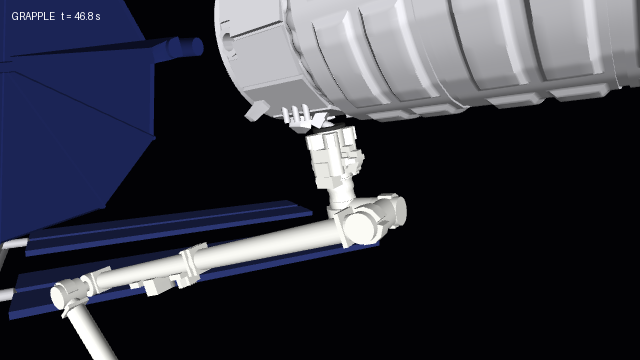
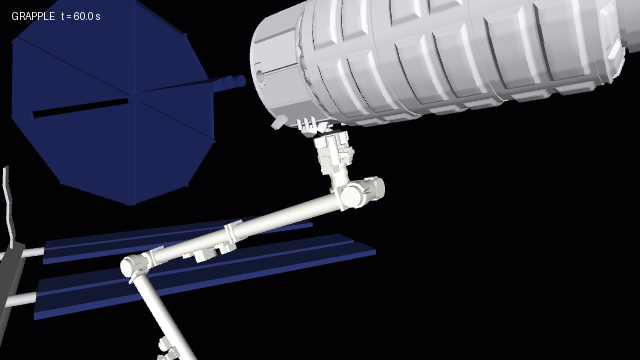
Realism pass 3: start at the 10 m capture point
Every attempt now starts with the grapple pin's tip 10 m from the
surface the arm stands on, the published capture distance for Cygnus,
and the end effector hovering 2 m short of it. The hover distance is an
assumption; no source for it was found.

Captures still succeed across every start condition tried, including a
15 degree tilt, because the controller has perfect knowledge of the pin.
The build log records that the experiments need imperfect sensing to be
informative.

diff --git a/capture/scene.py b/capture/scene.py
@@ -21,10 +21,16 @@ ARM_JOINTS = (
     "wrist_roll",
 )
 
-# End-effector mouth 9 m above the arm's base, pointing straight away from the station.
-# Found by inverse kinematics, choosing the best-conditioned of 29 solutions.
-READY_POSE = np.array([1.036931, -1.523612, -0.684771, 0.951583, 2.874781, 0.047185, 2.982912])
-READY_MOUTH = np.array([1.5, 1.0, 9.0])
+# Free-flying vehicles are captured about 10 m from the station. Here that is the
+# distance from the surface the arm stands on to the tip of the grapple pin.
+CAPTURE_DISTANCE = 10.0
+# How far the end effector waits from the pin before it starts. Not sourced.
+HOVER_DISTANCE = 2.0
+
+# End-effector mouth at the hover point, pointing straight away from the station.
+# Found by inverse kinematics from the best-conditioned of 29 solutions.
+READY_POSE = np.array([1.039915, -1.514656, -0.644822, 0.795967, 2.990447, 0.056141, 2.985896])
+READY_MOUTH = np.array([1.5, 1.0, CAPTURE_DISTANCE - HOVER_DISTANCE])
 
 # End-effector cavity, in the `lee` body frame (z is the approach axis).
 CAVITY_Z0, CAVITY_Z1 = 0.5, 1.0
@@ -143,7 +149,7 @@ def _rot_y(a: float) -> np.ndarray:
 def place_vehicle(
     model: mujoco.MjModel,
     data: mujoco.MjData,
-    standoff: float = 0.5,
+    standoff: float = HOVER_DISTANCE,
     lateral: tuple[float, float] = (0.0, 0.0),
     tilt: tuple[float, float] = (0.0, 0.0),
 ) -> None:
@@ -210,11 +216,15 @@ def pin_axis_error(model: mujoco.MjModel, data: mujoco.MjData) -> float:
 def reset(
     model: mujoco.MjModel,
     data: mujoco.MjData,
-    standoff: float = 0.5,
+    standoff: float = HOVER_DISTANCE,
     lateral: tuple[float, float] = (0.0, 0.0),
     tilt: tuple[float, float] = (0.0, 0.0),
 ) -> None:
-    """Arm at the ready pose, vehicle at rest in front of the end effector."""
+    """Arm at the ready pose, vehicle at rest in front of the end effector.
+
+    With the defaults the grapple pin's tip is at the capture point, CAPTURE_DISTANCE
+    from the station.
+    """
     mujoco.mj_resetData(model, data)
     set_arm(model, data, READY_POSE)
     place_vehicle(model, data, standoff, lateral, tilt)

diff --git a/tests/test_capture.py b/tests/test_capture.py
@@ -14,7 +14,7 @@ def model():
     return scene.build_model()
 
 
-def attempt(model, standoff=0.6, lateral=(0, 0), tilt_deg=(0, 0), drift=(0, 0, 0), tumble_deg=(0, 0, 0), **kw):
+def attempt(model, standoff=scene.HOVER_DISTANCE, lateral=(0, 0), tilt_deg=(0, 0), drift=(0, 0, 0), tumble_deg=(0, 0, 0), **kw):
     data = mujoco.MjData(model)
     scene.reset(model, data, standoff=standoff, lateral=lateral, tilt=np.radians(tilt_deg))
     scene.set_vehicle_velocity(model, data, drift, np.radians(tumble_deg))
@@ -40,6 +40,14 @@ def test_drift_is_the_centre_of_mass_velocity(model):
     assert v_com == pytest.approx([0.01, -0.02, 0.005], abs=1e-9)
 
 
+def test_default_start_puts_the_pin_at_the_capture_point(model):
+    data = mujoco.MjData(model)
+    scene.reset(model, data)
+    tip = data.site("pin_tip").xpos
+    assert tip[2] == pytest.approx(scene.CAPTURE_DISTANCE, abs=1e-3)  # 10 m from the mounting surface
+    assert scene.pin_offset(model, data) == pytest.approx([0, 0, scene.HOVER_DISTANCE], abs=1e-3)
+
+
 def test_captures_a_vehicle_at_rest(model):
     result = attempt(model)
     assert result.success
@@ -55,7 +63,7 @@ def test_captures_a_drifting_tumbling_misaligned_vehicle(model):
         tumble_deg=(0.06, -0.08, 0.03),
     )
     assert result.success
-    assert result.t_trigger < 60.0
+    assert result.t_trigger < 90.0
     assert result.rel_speed < 1e-3
 
 

diff --git a/scripts/render_approach.py b/scripts/render_approach.py
@@ -15,21 +15,21 @@ from capture.controller import CaptureController  # noqa: E402
 from capture.trial import run_trial  # noqa: E402
 
 OUT = ROOT / "docs" / "media"
-SIM_SECONDS_PER_FRAME = 0.4
-PLAYBACK_FPS = 10  # 4x real time
+SIM_SECONDS_PER_FRAME = 0.6
+PLAYBACK_FPS = 10  # 6x real time
 
 
 def main() -> None:
     model = scene.build_model()
     data = mujoco.MjData(model)
     # Exaggerated start so the alignment is easy to see.
-    scene.reset(model, data, standoff=0.7, lateral=(0.09, -0.05), tilt=np.radians((5.0, -4.0)))
+    scene.reset(model, data, lateral=(0.09, -0.05), tilt=np.radians((5.0, -4.0)))
     scene.set_vehicle_velocity(model, data, drift=(0.006, -0.004, 0.004), tumble=np.radians((0.08, -0.1, 0.04)))
     controller = CaptureController(model)
 
     cam = mujoco.MjvCamera()
-    cam.lookat[:] = data.site("lee_mouth").xpos + [0, 0, 0.15]
-    cam.distance, cam.azimuth, cam.elevation = 7.0, 60.0, -10.0
+    cam.lookat[:] = data.site("lee_mouth").xpos + [0, 0, 1.2]
+    cam.distance, cam.azimuth, cam.elevation = 10.0, 60.0, -8.0
 
     frames = []
     next_frame = [0.0]

diff --git a/scripts/view.py b/scripts/view.py
@@ -37,12 +37,12 @@ def main() -> None:
     steps_per_frame = max(1, int(round(args.speed * FRAME_TIME / model.opt.timestep)))
 
     with mujoco.viewer.launch_passive(model, data) as viewer:
-        scene.reset(model, data, standoff=0.7)
-        viewer.cam.lookat[:] = data.site("lee_mouth").xpos + [0, 0, 0.3]
-        viewer.cam.distance, viewer.cam.azimuth, viewer.cam.elevation = 5.0, 60.0, -10.0
+        scene.reset(model, data)
+        viewer.cam.lookat[:] = data.site("lee_mouth").xpos + [0, 0, 1.2]
+        viewer.cam.distance, viewer.cam.azimuth, viewer.cam.elevation = 10.0, 60.0, -8.0
 
         while viewer.is_running():
-            scene.reset(model, data, standoff=0.7, lateral=(0.09, -0.05), tilt=np.radians((5.0, -4.0)))
+            scene.reset(model, data, lateral=(0.09, -0.05), tilt=np.radians((5.0, -4.0)))
             scene.set_vehicle_velocity(model, data, drift=(0.006, -0.004, 0.004), tumble=np.radians((0.08, -0.1, 0.04)))
             controller.reset(data)
             hold_until = None  # keep showing the result for a few seconds

diff --git a/scripts/render_scene.py b/scripts/render_scene.py
@@ -17,14 +17,14 @@ VIEWS = {
     # name: (lookat, distance, azimuth, elevation)
     "scene_station": ((-10.0, 0.0, 2.0), 70.0, 50.0, -20.0),
     "scene_wide": ((0.0, 2.0, 4.0), 26.0, 150.0, 5.0),
-    "scene_closeup": (None, 6.0, 60.0, -10.0),
+    "scene_closeup": (None, 8.0, 60.0, -5.0),
 }
 
 
 def main() -> None:
     model = scene.build_model()
     data = mujoco.MjData(model)
-    scene.reset(model, data, standoff=0.6)
+    scene.reset(model, data)
 
     OUT.mkdir(parents=True, exist_ok=True)
     with mujoco.Renderer(model, height=1080, width=1920) as renderer:

diff --git a/scripts/plan_diagram.py b/scripts/plan_diagram.py
@@ -23,7 +23,7 @@ EXPERIMENTS = [
 ]
 
 # One line on what is happening right now, shown under the title.
-NOW = "Now: realism pass before stage 4.  Real 3D models and station: done.  Sourced parameters: done.  10 m start: next."
+NOW = "Realism pass complete: real 3D models and station, sourced parameters, 10 m capture point.  Next: stage 4."
 
 W, H = 1600, 860
 BG, CARD, EDGE = "#0f1b2d", "#1b2a40", "#2b3d57"

diff --git a/docs/PLAN.md b/docs/PLAN.md
@@ -26,8 +26,8 @@ The project is simulation only. It is a reasoned study of a real operation, not 
 | 3 | Approach and capture | Done (2026-10-10) | A controller completes a capture from a nominal start |
 | R1 | Realism: real 3D models | Done (2026-10-10) | Arm, vehicle, and station use Canadian Space Agency and NASA models; arm joints placed from them |
 | R2 | Realism: sourced parameters | Done (2026-10-10) | Snare and capture numbers taken from the published papers where they give them |
-| R3 | Realism: 10 m capture point | Next | The attempt starts with the vehicle at the real capture distance |
-| 4 | Trial harness | Planned | One command runs N trials and reports success rate and failure types |
+| R3 | Realism: 10 m capture point | Done (2026-10-10) | The attempt starts with the vehicle at the real capture distance |
+| 4 | Trial harness | Next | One command runs N trials and reports success rate and failure types |
 | 5 | Experiment A: capture envelope | Planned | Success map over misalignment, drift, and tumble |
 | 6 | Experiment B: parameter sensitivity | Planned | Matched trials showing the effect of friction, compliance, and delay |
 | 7 | Experiment C: second engine | Planned | Scene exported to USD and rerun in Newton, results compared |
@@ -61,6 +61,7 @@ The project is simulation only. It is a reasoned study of a real operation, not 
 | 2026-10-10 | Arm goes limp during pull-in, except wrist roll | The paper says angular misalignment is removed against a limped arm |
 | 2026-10-10 | Arm keeps tracking until the snare has closed | Stopping at the trigger failed at the paper's 0.031 m/s relative velocity |
 | 2026-10-10 | Cap tip speed at 0.37 m/s | Canadarm2's published unloaded speed |
+| 2026-10-10 | Every attempt starts with the pin at the 10 m capture point and the arm hovering 2 m short | Matches the published capture distance; the hover distance is an assumption |
 | 2026-10-10 | Treat the station as fixed and the arm as rigid | The station is about 60 times heavier than the vehicle; arm flexibility is left out to keep the first version simple |
 
 ## Sourced values
@@ -82,7 +83,8 @@ The project is simulation only. It is a reasoned study of a real operation, not 
 | Limp arm during rigidization | all joints except wrist roll | Daniell and Sachdev | Implemented |
 | Snare drive | ring turns through 80° | Daniell and Sachdev | Not modelled; bars slide instead |
 | Cygnus | 3.07 m diameter, 6.39 m long, up to 8,050 kg loaded | Public data | Collision shape; 7,000 kg |
-| Capture point | about 10 m from the station (12 m for Cygnus XL) | NASA reports | Realism step 3 |
+| Capture point | about 10 m from the station (12 m for Cygnus XL) | NASA reports | The grapple pin's tip starts 10 m from the surface the arm stands on |
+| Ground-control latency | 0.3 to 0.5 s each way | Freer et al. (2020) | Range for the sensing-delay parameter in experiment B |
 
 Daniell and Sachdev (1982) describes the Shuttle arm's end effector: 0.34 m in diameter, 0.46 m long, 29.5 kg. Canadarm2's is a larger descendant with added latches, so these values are indicative for it, not exact.
 
@@ -96,6 +98,8 @@ Daniell and Sachdev (1982) describes the Shuttle arm's end effector: 0.34 m in d
 - Vehicle: collision shape is two cylinders fitted to the CSA Cygnus model; mass split by guess. The grapple pin sits where the model shows a small fixture on the service module, which is probably the grapple fixture but is not confirmed.
 - Grapple pin: 0.3 m long, 2 cm radius, with a flat-backed knob. The real fixture has a shaft with cam arms, which are not modelled.
 - Snare: three rigid bars, 6 mm radius, drive force limit 1,500 N, friction 0.6. Cable tension and friction are not sourced.
+- Hover distance: the end effector starts 2 m from the pin. No source found for the real pre-capture distance.
+- Which point the published 10 m is measured from is not stated; here it is the module surface under the arm's base.
 - Controller: gains, 3 cm/s insertion speed, alignment tolerances. Real captures are flown by an operator; the controller here has perfect knowledge of the pin.
 - Station: NASA's model (B), scaled by 2.35. Low-detail, untextured, US modules about 15% narrow. The arm's mounting position on the forward node is approximate.
 
@@ -124,7 +128,8 @@ Prior work:
 - Arbatani, Kövecses, and Teichmann, "Real-time Simulation of Cable-Based Robotic End Effectors", ECCOMAS Multibody 2023 (read): https://multibody2023.tecnico.ulisboa.pt/prog_MULTIBODY_WEB/MULTBODY2023_ABSTRACTS/ID_243_327_ECCOMAS_MBD_2023_accepted_rev.pdf
 - Uyama et al., contact dynamics between the end effector and a floating target, JAXA workshop, 2009 (abstract only; full text not public): https://jaxa.repo.nii.ac.jp/records/7383
 - Snare-type end-effector cable dynamics (paywalled; not read): https://link.springer.com/article/10.1007/s11771-013-1825-z
-- On-orbit operations simulator for telerobotic training: https://arxiv.org/pdf/2002.10594
+- Freer et al., "On-Orbit Operations Simulator for Workload Measurement during Telerobotic Training", 2020 (read; a Unity simulator for operator workload studies, with no contact physics): https://arxiv.org/pdf/2002.10594
+- Lucier and Smith, "Cosmic Catch: Canadarm2's First Capture of a Free-Flying Vehicle", IAC 2010 (abstract only; full paper restricted): https://iafastro.directory/iac/archive/browse/IAC-10/B6/1/7030/
 - mjorbit: https://arxiv.org/pdf/2609.08010
 - SmallSatSim: https://arxiv.org/html/2603.14598v1
 - NASA Johnson robotics open source: https://github.com/NASA-JSC-Robotics

diff --git a/docs/DEVLOG.md b/docs/DEVLOG.md
@@ -120,7 +120,7 @@ I also put the three bars in one plane. They had been stacked 14 mm apart so the
 - `scene.py`: the vehicle's start can now be tilted, and given a drift and a tumble.
 - `tests/test_capture.py`: five checks. `scripts/render_approach.py`: an animation.
 
-![Approach and capture, 4x speed](media/approach_capture.gif)
+![Approach and capture, sped up](media/approach_capture.gif)
 
 **How the tracking works.** Each step computes where the end-effector mouth should be (on the pin axis, at the commanded standoff, facing the pin) and how fast that point is moving. The error plus the target's own velocity gives a desired end-effector velocity. The damped pseudo-inverse of the arm's Jacobian turns that into joint rates, which are integrated into joint position commands. The arm has 7 joints and the task uses 5 degrees of freedom, because roll about the pin axis is left free.
 
@@ -221,7 +221,7 @@ Doing that showed the first arm was wrong in kind, not just in detail. It was a 
 
 ![Scene with real models](media/scene_wide.png)
 ![End effector approaching the grapple pin](media/scene_closeup.png)
-![Approach and capture, 4x speed](media/approach_capture.gif)
+![Approach and capture, sped up](media/approach_capture.gif)
 
 **Kept simple on purpose.** The meshes are appearance only. Collisions still use the cylinder-and-box shapes, now hidden. A test confirms the masses, inertias, and number of colliding shapes are identical with and without meshes.
 
@@ -313,3 +313,45 @@ The 1982 paper is about the Shuttle arm's end effector, not Canadarm2's. Canadar
 **Checks.** 25 pass, including three new ones tied to published figures: the bending moment and the capture velocity in three directions.
 
 **Still invented.** Listed in `PLAN.md` under "Assumptions still unsourced". The main ones are link masses, servo gains, snare cable tension and friction, and the absence of arm flexibility.
+
+## 2026-10-10 · Realism pass, step 3: the 10 m capture point
+
+**Goal.** Start each attempt the way a real capture starts: the vehicle holding at the capture point, and the arm reaching out to it.
+
+**What is published.** Cygnus stops at a capture point about 10 m from the station (12 m for the larger Cygnus XL), switches its thrusters off, and drifts while the arm grapples it. Nothing I could access gives the distance the arm waits from the grapple fixture beforehand, or the vehicle's leftover drift rates. The one operations paper on Canadarm2's first free-flyer capture (Lucier and Smith, 2010) is restricted.
+
+**Built.**
+
+- `scene.CAPTURE_DISTANCE = 10.0`: the grapple pin's tip starts 10 m from the surface the arm stands on.
+- `scene.HOVER_DISTANCE = 2.0`: the end effector starts 2 m short of the pin. This is an assumption.
+- A new ready pose for the hover point, and `reset()` now defaults to this start.
+- The controller is unchanged. Its first phase already moves the end effector to 0.4 m from the pin before aligning; it now has 1.6 m to cover first.
+
+![Approach and capture, sped up](media/approach_capture.gif)
+
+**Results.** An attempt now takes 60 simulated seconds (41 s to the snare firing), up from 46 s, and 1.2 s of computer time.
+
+| Start condition | Result |
+|---|---|
+| At rest, aligned | Captured |
+| Off-axis, tilted 2.5°, drifting 7 mm/s, tumbling | Captured |
+| Moving at 0.031 m/s: receding, approaching, sideways | Captured |
+| Tilted 10° | Captured |
+| Tilted 15° and 8 cm off-axis | Captured |
+| Tumbling at 0.6°/s | Captured |
+
+**What this confirms.** The concern from milestone 3 stands. Everything succeeds, because the controller knows the pin's exact position and velocity and simply lines the arm up with it. A 15° tilt is no test of the snare when the arm removes the tilt before inserting. The experiments will only be informative once sensing is imperfect: noise, delay, and limits on how fast the arm can follow.
+
+**Also read.** Freer et al. (2020), the Canadarm2 training simulator found earlier, is a Unity tool for studying operator workload. It has no contact physics, and a grapple there means coming within 1 m. It does give ground-control latency of 0.3 to 0.5 s each way, which sets a realistic range for the sensing-delay parameter.
+
+**Realism pass summary.**
+
+| Step | Outcome |
+|---|---|
+| 1. Real 3D models | Arm, Cygnus, and station from CSA and NASA models; arm rebuilt with offset joints |
+| 2. Sourced parameters | Pull-in force, timings, limp arm, speed cap; two faults found and fixed |
+| 3. Capture point | Pin starts 10 m from the station; arm starts 2 m short |
+
+**Checks.** 26 pass.
+
+**Next.** Milestone 4, the trial harness. It needs an out-of-reach abort and outcome labels: captured, missed, caught but not rigid, never reached.

diff --git a/README.md b/README.md
@@ -10,7 +10,7 @@ A MuJoCo simulation of a space station arm capturing a free-floating cargo vehic
 
 ![Arm on the forward node](docs/media/scene_wide.png)
 
-![Approach and capture, 4x speed](docs/media/approach_capture.gif)
+![Approach and capture, sped up](docs/media/approach_capture.gif)
 
 ![Grapple sequence inside the end effector](docs/media/snare_capture.gif)
 
